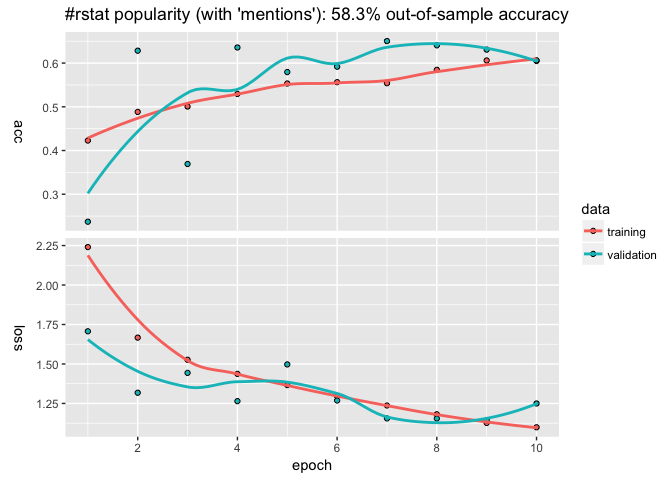
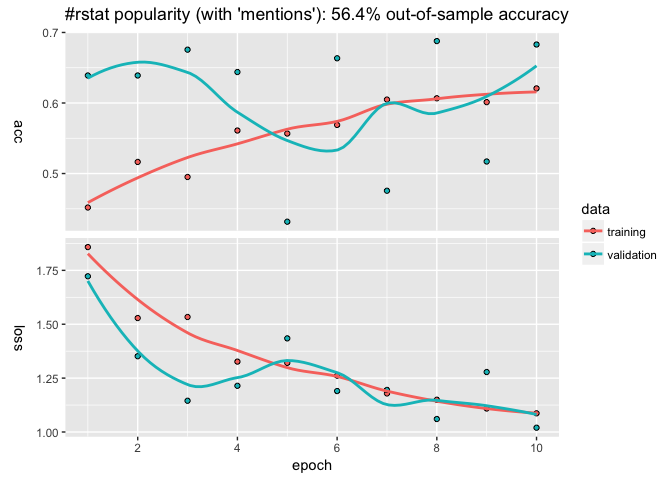
fixing line breaks

diff --git a/mohanty_kerasformula.md b/mohanty_kerasformula.md
@@ -1,5 +1,6 @@
 Analyzing rtweet data with kerasformula
 ================
+Pete Mohanty
 
 This document introduces `kms`, the main function of `library(kerasformula)`. Newly on `CRAN`, `kerasformula` offers a high-level interface for `keras`. Many classic machine learning tutorials assume that data come in a relatively homogenous form (e.g., pixels for digit recognition or counts or ranks words) which can make coding somewhat cumbersome when data come in a heterogenous data frame. `kms` takes advantage of the flexibility of R formulas to smooth this process.
 
@@ -14,7 +15,7 @@ install_keras()                        # first time only. see ?install_keras() f
 library(rtweet)                        # see https://github.com/mkearney/rtweet
 ```
 
-Let's look at \#rstats tweets (excluding retweets) as of January 15, 2018 at 11:39. This happens to give us a nice reasonable number of observations to work with in terms of runtime (and the purpose of this document is to show syntax, not build particularly predictive models).
+Let's look at \#rstats tweets (excluding retweets) as of January 15, 2018 at 15:54. This happens to give us a nice reasonable number of observations to work with in terms of runtime (and the purpose of this document is to show syntax, not build particularly predictive models).
 
 ``` r
 library(rtweet)
@@ -27,11 +28,13 @@ Suppose our goal is to predict how popular tweets will be based on how often the
 cor(rstats$favorite_count, rstats$retweet_count, method="spearman")
 ```
 
-    [1] 0.7096207
+    [1] 0.7114875
 
 And let's suppose we are interested in putting tweets into categories based on popularity but we're not sure how finely-grained we want to make distinctions (a practical problem that turns out to have big implications for predictive accuracy). Since few tweeets go viral, the data are quite skewed towards zero.
 
-![](mohanty_kerasformula_files/figure-markdown_github-ascii_identifiers/unnamed-chunk-2-1.png) Some of the data, like `rstats$mentions_screen_name` comes in a list of varying lengths, so let's write a helper function to count non-NA entries.
+![](mohanty_kerasformula_files/figure-markdown_github-ascii_identifiers/unnamed-chunk-2-1.png)
+
+Some of the data, like `rstats$mentions_screen_name` comes in a list of varying lengths, so let's write a helper function to count non-NA entries.
 
 ``` r
 n <- function(x){
@@ -66,14 +69,14 @@ popularity$confusion
 
                    
                     (-1,0] (0,1] (1,10] (10,100] (100,1e+03] (1e+03,1e+04]
-      (-1,0]            27    12      7       13           0             0
-      (0,1]             19    33     32       33           0             0
-      (1,10]             2    11     56      134           0             0
-      (10,100]           0     1      9      103           0             0
-      (100,1e+03]        0     0      0        8           0             0
+      (-1,0]            31     8      2        9           0             0
+      (0,1]             29    23      8       43           0             0
+      (1,10]            13    31     16      157           0             0
+      (10,100]           0     2      2      111           0             0
+      (100,1e+03]        0     0      0        7           0             0
       (1e+03,1e+04]      0     0      0        0           0             0
 
-The model only classifies about 44% of the out-of-sample data correctly. The confusion matrix suggests that model does best with tweets that aren't retweeted but struggles with others. The `history` plot suggests that out of sample accuracy is not very stable. We can easily change the breakpoints and number of epochs.
+The model only classifies about 37% of the out-of-sample data correctly. The confusion matrix suggests that model does best with tweets that aren't retweeted but struggles with others. The `history` plot suggests that out of sample accuracy is not very stable. We can easily change the breakpoints and number of epochs.
 
 ``` r
 breaks <- c(-1, 0, 1, 25, 50, 75, 100, 500, 1000, 10000)
@@ -89,7 +92,9 @@ plot(popularity$history) + ggtitle(paste("#rstat popularity (new breakpoints):",
                                          "out-of-sample accuracy"))
 ```
 
-![](mohanty_kerasformula_files/figure-markdown_github-ascii_identifiers/change_breaks-1.png) Suppose we want to add a little more data. Let's first store the input formula.
+![](mohanty_kerasformula_files/figure-markdown_github-ascii_identifiers/change_breaks-1.png)
+
+Suppose we want to add a little more data. Let's first store the input formula.
 
 ``` r
 pop_input <- "cut(retweet_count + favorite_count, breaks) ~  
@@ -118,7 +123,9 @@ plot(popularity$history) + ggtitle(paste("#rstat popularity (with 'mentions'):",
                                          "out-of-sample accuracy"))
 ```
 
-![](mohanty_kerasformula_files/figure-markdown_github-ascii_identifiers/add_mentions-1.png) We could add more data, perhaps add individual words from the text or some other summary stat (`mean(text %in% LETTERS)` to see if all caps explains popularity). But let's alter the neural net.
+![](mohanty_kerasformula_files/figure-markdown_github-ascii_identifiers/add_mentions-1.png)
+
+We could add more data, perhaps add individual words from the text or some other summary stat (`mean(text %in% LETTERS)` to see if all caps explains popularity). But let's alter the neural net.
 
 The `input.formula` is used to create a sparse model matrix. For example, `rstats$source` (Twitter or Twitter-client application type) and `rstats$screen_name` are character vectors that will be dummied out. How many columns does it have?
 
@@ -126,7 +133,7 @@ The `input.formula` is used to create a sparse model matrix. For example, `rstat
 popularity$P
 ```
 
-    [1] 1810
+    [1] 1787
 
 Say we wanted to reshape the layers to transition more gradually from the input shape to the output.
 
@@ -166,9 +173,9 @@ colMeans(accuracy)
 ```
 
     Nbatch_16 Nbatch_32 Nbatch_64 
-    0.4170338 0.4683067 0.4818758 
+    0.3987599 0.5745734 0.5011924 
 
-For the sake of curtailing runtime, the number of epochs has been set arbitrarily short but, from those results, 64 is the best batch size.
+For the sake of curtailing runtime, the number of epochs has been set arbitrarily short but, from those results, 32 is the best batch size.
 
 Inputting a Compiled Keras Model
 ================================
